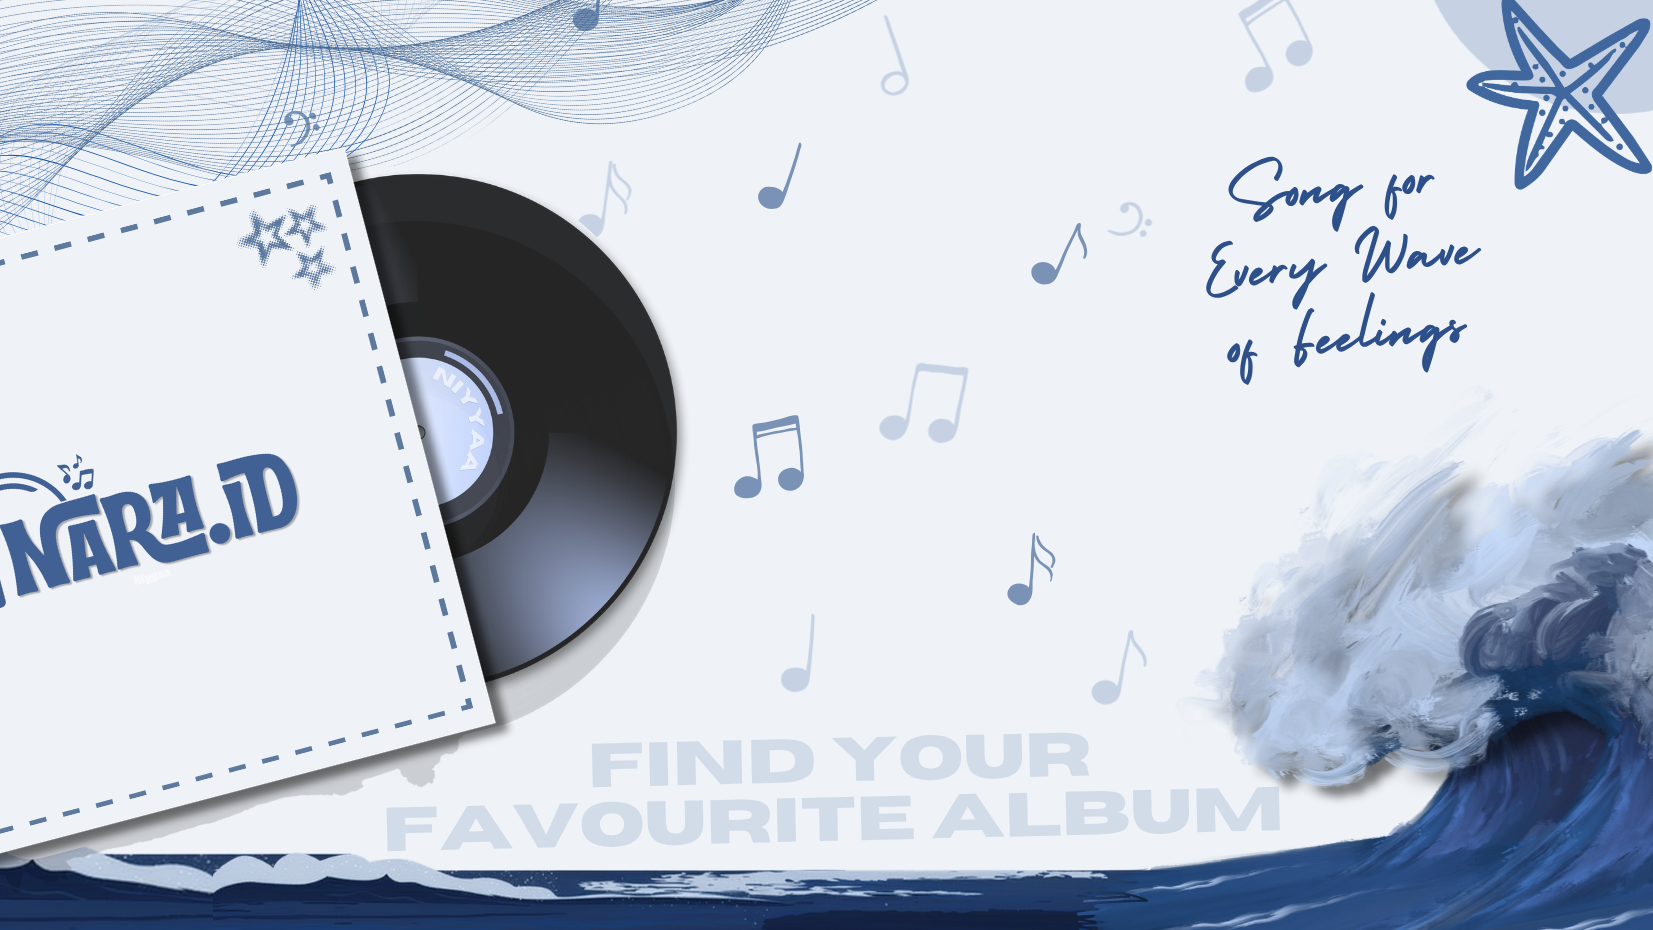
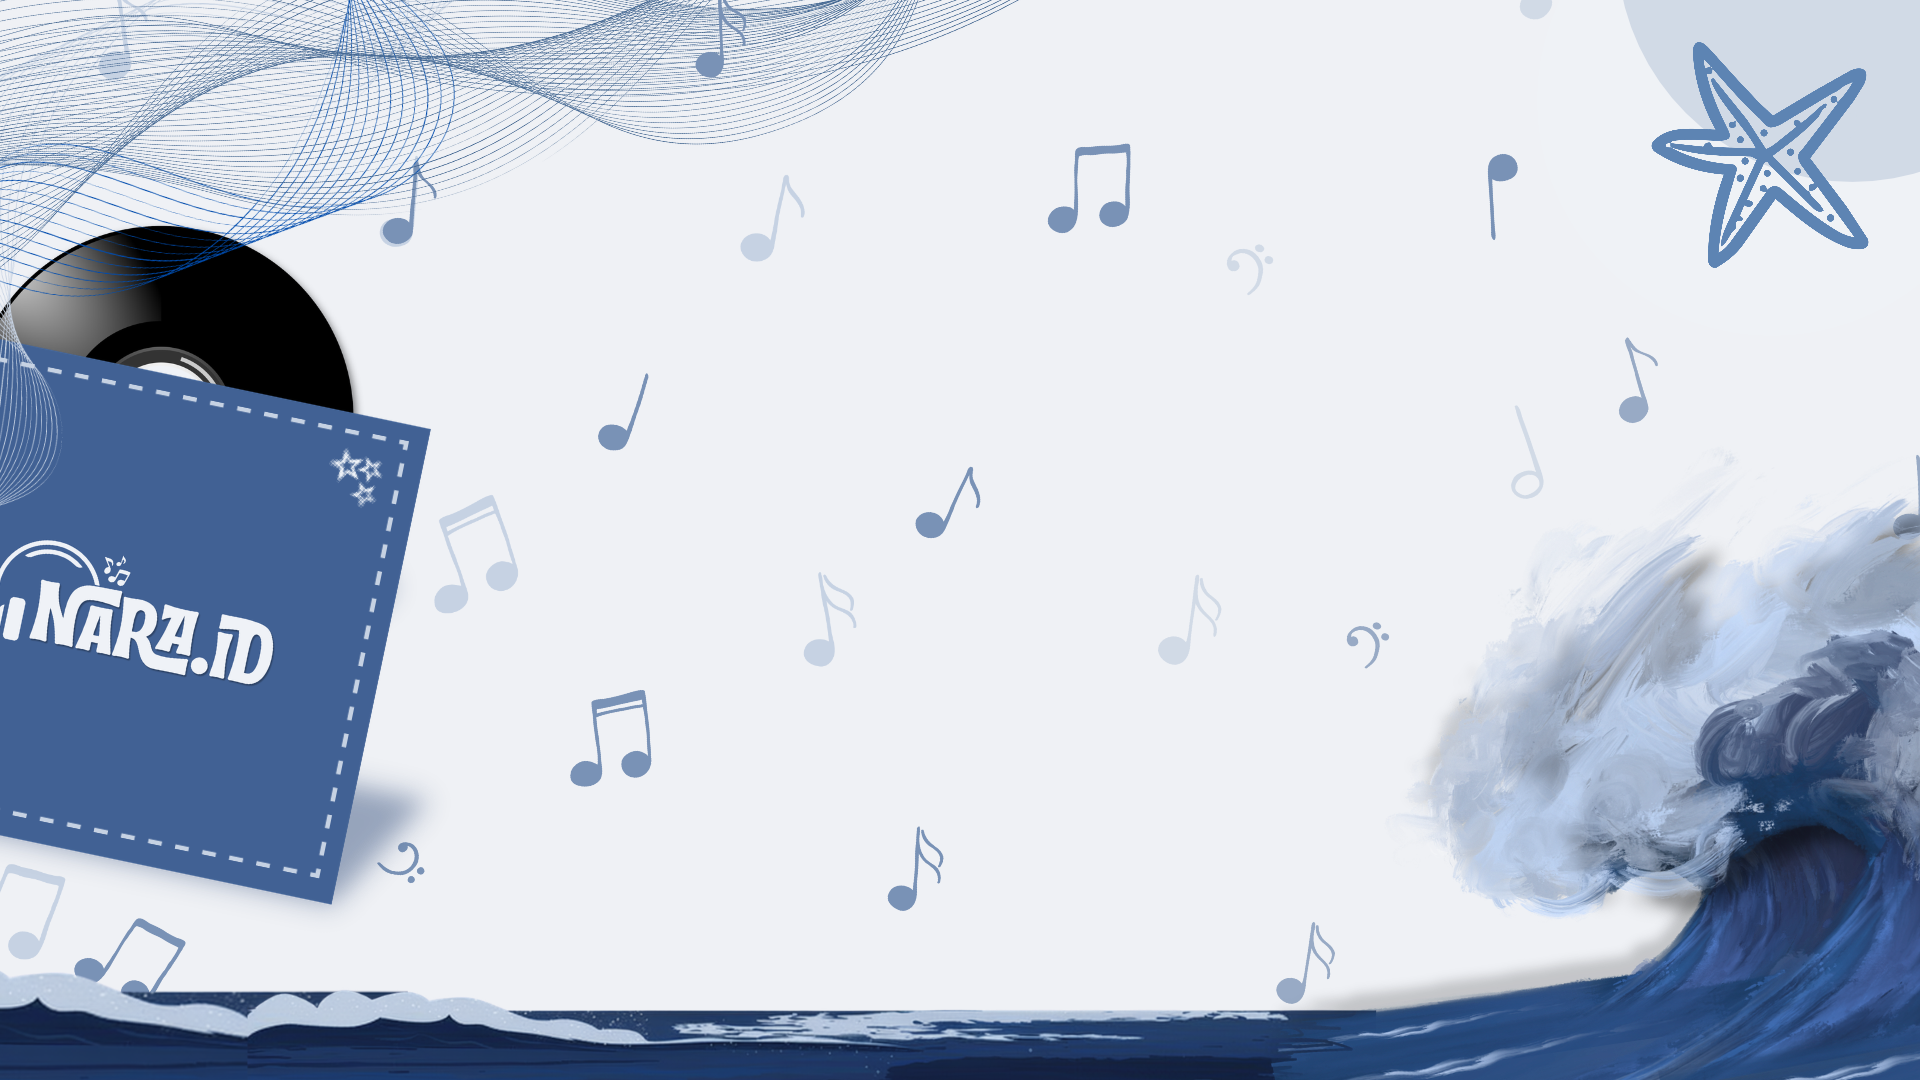
benerin yg owner admin

diff --git a/resources/views/pages/buyer/order/create.blade.php b/resources/views/pages/buyer/order/create.blade.php
@@ -25,17 +25,17 @@
                             <div class="col-md-4 mb-3">
                                 <label for="buyer_name" class="small text-muted mb-1">Name</label>
                                 <input type="text" id="buyer_name" class="form-control bg-light"
-                                    value="{{ auth()->user()->name }}" readonly>
+                                    value="{{ auth('buyer')->user()->name }}" readonly>
                             </div>
                             <div class="col-md-4 mb-3">
                                 <label for="buyer_email" class="small text-muted mb-1">Email</label>
                                 <input type="email" id="buyer_email" class="form-control bg-light"
-                                    value="{{ auth()->user()->email }}" readonly>
+                                    value="{{ auth('buyer')->user()->email }}" readonly>
                             </div>
                             <div class="col-md-4 mb-3">
                                 <label for="buyer_phone" class="small text-muted mb-1">Phone Number</label>
                                 <input type="text" id="buyer_phone" class="form-control bg-light"
-                                    value="{{ auth()->user()->phone }}" readonly>
+                                    value="{{ auth('buyer')->user()->phone }}" readonly>
                             </div>
                         </div>
 
@@ -54,7 +54,8 @@
                                     </option>
                                     @foreach ($albums as $album)
                                         <option value="{{ $album->id }}" data-price="{{ $album->price }}"
-                                            data-stock="{{ $album->stock }}" data-title="{{ $album->title }}"
+                                            data-stock="{{ $album->stock }}" data-artist="{{ $album->artist_name }}"
+                                            data-title="{{ $album->title }}"
                                             data-image="{{ $album->image ? asset('storage/albums/' . $album->image) : '' }}"
                                             {{ $album->stock <= 0 ? 'disabled' : '' }}
                                             {{ old('album_id') == $album->id ? 'selected' : '' }}>
@@ -83,6 +84,9 @@
                             <div class="order-item-body">
                                 <div class="order-item-title" id="albumTitle">
                                     {{ isset($fromalbum) ? $fromalbum->title : 'No album selected' }}
+                                </div>
+                                <div class="small text-muted mb-1" id="albumArtist">
+                                    {{ isset($fromalbum) ? $fromalbum->artist_name : '' }}
                                 </div>
                                 <div class="order-item-stock" id="albumStock">
                                     @if (isset($fromalbum))
@@ -168,11 +172,13 @@
                         stock = parseInt(opt.dataset.stock || 0);
 
                         const titleEl = document.getElementById('albumTitle');
+                        const artistEl = document.getElementById('albumArtist');
                         const priceEl = document.getElementById('albumPrice');
                         const img = document.getElementById('albumImage');
                         const placeholder = document.getElementById('albumPlaceholder');
 
                         if (titleEl) titleEl.innerText = opt.dataset.title || 'No album selected';
+                        if (artistEl) artistEl.innerText = opt.dataset.artist || '';
                         if (priceEl) priceEl.innerText = fmt(price);
                         if (stockEl) stockEl.innerHTML = opt.value ? stockText(stock) : 'Stock: -';
 

diff --git a/resources/views/layouts/auth.blade.php b/resources/views/layouts/auth.blade.php
@@ -28,7 +28,6 @@
         .password-wrapper .form-control {
             padding-right: 3rem;
             background-image: none;
-            /* hilangin ikon error bawaan Bootstrap biar gak tabrakan */
         }
 
         .toggle-password {
@@ -49,11 +48,11 @@
 
         .regin-page {
             min-height: 100vh;
+            width: 100%;
             background:
-                linear-gradient(rgba(23, 37, 54, 0.65), rgba(23, 37, 54, 0.65)),
-                url('/img/hero-bg.jpg');
-            background-size: cover;
-            background-position: center;
+                linear-gradient(rgba(0, 0, 0, 0.45),rgba(0, 0, 0, 0.45)),
+                url('/img/background.png') center center / cover no-repeat;
+            background-attachment: fixed;
         }
 
         .regin-card {
@@ -81,6 +80,7 @@
         }
 
         .regin-page .container {
+            min-height: 100vh;
             padding-top: 3rem;
             padding-bottom: 3rem;
         }
@@ -132,21 +132,21 @@
     <script src="js/sb-admin-2.min.js"></script>
 
     <script>
-    document.addEventListener('click', function (e) {
-        const btn = e.target.closest('.toggle-password');
-        if (!btn) return;
+        document.addEventListener('click', function(e) {
+            const btn = e.target.closest('.toggle-password');
+            if (!btn) return;
 
-        const input = document.getElementById(btn.dataset.target);
-        const icon = btn.querySelector('i');
-        if (!input) return;
+            const input = document.getElementById(btn.dataset.target);
+            const icon = btn.querySelector('i');
+            if (!input) return;
 
-        const isHidden = input.type === 'password';
-        input.type = isHidden ? 'text' : 'password';
-        icon.classList.toggle('fa-eye', !isHidden);
-        icon.classList.toggle('fa-eye-slash', isHidden);
-        btn.setAttribute('aria-label', isHidden ? 'Sembunyikan password' : 'Tampilkan password');
-    });
-</script>
+            const isHidden = input.type === 'password';
+            input.type = isHidden ? 'text' : 'password';
+            icon.classList.toggle('fa-eye', !isHidden);
+            icon.classList.toggle('fa-eye-slash', isHidden);
+            btn.setAttribute('aria-label', isHidden ? 'Sembunyikan password' : 'Tampilkan password');
+        });
+    </script>
 
 </body>
 

diff --git a/app/Http/Controllers/Buyer/OrderController.php b/app/Http/Controllers/Buyer/OrderController.php
@@ -18,7 +18,7 @@ class OrderController extends Controller
         $status = $request->query('status');
 
         $orders = Order::with('album')
-            ->where('buyer_id', auth()->id())
+            ->where('buyer_id', auth('buyer')->id())
             ->when($status, fn($q) => $q->where('status', $status))
             ->latest()
             ->get();
@@ -35,12 +35,12 @@ class OrderController extends Controller
 
     public function show(string $id)
     {
-        $order = Order::with('album')->findOrFail(decrypt($id));
+        $order = Order::with('album')->where('buyer_id', auth('buyer')->id())->findOrFail(decrypt($id));
 
         return view('pages.buyer.order.show', compact('order'));
     }
 
-    public function createFromAlbum($id)
+    public function createFromAlbum(string $id)
     {
         $fromalbum = Album::findOrFail(decrypt($id));
 
@@ -67,7 +67,7 @@ class OrderController extends Controller
             $album->decrement('stock', $validated['qty']);
 
             return Order::create([
-                'buyer_id' => auth()->id(),
+                'buyer_id' => auth('buyer')->id(),
                 'album_id' => $album->id,
                 'qty' => $validated['qty'],
                 'total' => $album->price * $validated['qty'],
@@ -80,18 +80,18 @@ class OrderController extends Controller
             ->with('success', 'Order created successfully. Please complete your payment within 24 hours.');
     }
 
-    public function payment($id)
+    public function payment(string $id)
     {
         $order = Order::with('album')
-            ->where('buyer_id', auth()->id())
+            ->where('buyer_id', auth('buyer')->id())
             ->findOrFail(decrypt($id));
 
         return view('pages.buyer.order.payment', compact('order'));
     }
 
-    public function uploadPayment(Request $request, $id)
+    public function uploadPayment(Request $request, string $id)
     {
-        $order = Order::where('buyer_id', auth()->id())->findOrFail(decrypt($id));
+        $order = Order::where('buyer_id', auth('buyer')->id())->findOrFail(decrypt($id));
 
         // only orders that are still waiting for payment / verification can receive a proof
         if (!in_array($order->status, ['awaiting_payment', 'awaiting_verification'])) {

diff --git a/resources/views/pages/buyer/order/show.blade.php b/resources/views/pages/buyer/order/show.blade.php
@@ -33,7 +33,7 @@
     <div class="page-head">
         <div>
             <h1>Order Detail</h1>
-            <p>Order #{{ $order->id }}</p>
+            <p>Order #{{ $order->order_code }}</p>
         </div>
         <a href="{{ route('buyer.order.index') }}" class="btn-back">
             <i class="fas fa-arrow-left mr-2"></i><span>My Orders</span>
@@ -81,7 +81,8 @@
                 <div class="order-note order-note--refund">
                     <i class="fas fa-undo"></i>
                     <span>
-                        Your payment will be refunded within <strong>1x24 hours</strong>.
+                        A refund of <strong>IDR {{ number_format($order->total, 0, ',', '.') }}</strong>
+                        will be sent to the account you used for the transfer within <strong>1x24 hours</strong>.
                         If it hasn't arrived yet, please contact us at <strong>+62 856-9352-6592</strong>
                         or <strong>naraid@gmail.com</strong>.
                     </span>
@@ -111,7 +112,7 @@
                         <span><i class="fas fa-phone-alt"></i> +62 856-9352-6592</span>
                     </div>
 
-                    <small>Please show your Order ID <b>#{{ $order->id }}</b> when picking up.</small>
+                    <small>Please show your Order ID <b>#{{ $order->order_code }}</b> when picking up.</small>
                 </div>
 
                 <a href="https://www.google.com/maps/search/?api=1&query={{ urlencode('Jl. Jenderal Sudirman No. 45, Purbalingga') }}"

diff --git a/routes/web.php b/routes/web.php
@@ -4,7 +4,6 @@ use Illuminate\Support\Facades\Route;
 
 
 Route::get('/', [App\Http\Controllers\LandingController::class, 'index'])->name('landing');
-// web.php
 Route::get('/catalog/{id}', [App\Http\Controllers\CatalogController::class, 'show'])->name('catalog.show');
 
 Route::get('login', [App\Http\Controllers\Auth\LoginController::class, 'showLoginForm'])->name('login');
@@ -12,7 +11,7 @@ Route::post('login', [App\Http\Controllers\Auth\LoginController::class, 'login']
 Route::post('/admin/logout', [App\Http\Controllers\Auth\LoginController::class, 'logoutAdmin'])->name('admin.logout');
 Route::post('/buyer/logout', [App\Http\Controllers\Auth\LoginController::class, 'logoutBuyer'])->name('buyer.logout');
 
-//Registrasi pembeli
+//registrasi pembeli
 Route::get('/register', [App\Http\Controllers\Auth\Buyer\RegisterController::class, 'showRegistrationForm'])->name('register');
 Route::post('/register', [App\Http\Controllers\Auth\Buyer\RegisterController::class, 'register']);
 

diff --git a/resources/views/pages/admin/order/edit.blade.php b/resources/views/pages/admin/order/edit.blade.php
@@ -19,7 +19,7 @@
                     <div class="admin-form-group">
                         <label for="id" class="form-label">Order ID</label>
                         <div class="admin-form-input">
-                            <input type="text" id="id" value="{{ $order->id }}" class="form-control"
+                            <input type="text" id="id" value="{{ $order->order_code }}" class="form-control"
                                 style="background-color: transparent;" readonly>
                         </div>
                     </div>

diff --git a/resources/views/welcome.blade.php b/resources/views/welcome.blade.php
@@ -61,9 +61,7 @@
 
             <div class="top-row d-flex align-items-center justify-content-between">
                 <a class="logo d-flex align-items-center">
-                    <!-- Uncomment the line below if you also wish to use an image logo -->
                     <img src="{{ asset('img/logo1.png') }}" alt="NARA.ID" style="width: 150px; height: auto;">
-                    <!-- <h1 class="sitename">NARA.ID</h1> -->
                 </a>
             </div>
         </div>

diff --git a/database/seeders/UserSeeder.php b/database/seeders/UserSeeder.php
@@ -12,11 +12,13 @@ class UserSeeder extends Seeder
      */
     public function run(): void
     {
-        \App\Models\User::create([
+        $owner = new \App\Models\User([
             'name' => 'yayaatmin',
             'email' => 'atminnaraid@gmail.com',
-            'password' => 'yayaatmin0'
+            'password' => 'yayaatmin0',
         ]);
+        $owner->role = 'owner';
+        $owner->save();
 
         \App\Models\User::factory()->count(4)->create();
     }

diff --git a/resources/views/pages/buyer/order/payment.blade.php b/resources/views/pages/buyer/order/payment.blade.php
@@ -29,7 +29,7 @@
 
             <div class="order-item-body">
                 <div class="order-item-title">{{ $order->album->title ?? '-' }}</div>
-                <div class="text-muted mb-1">Order #{{ $order->id }}</div>
+                <div class="text-muted mb-1">Order #{{ $order->order_code }}</div>
                 <div class="text-muted mb-3">Qty: {{ $order->qty }}</div>
 
                 <div class="order-item-total">

diff --git a/app/Models/Order.php b/app/Models/Order.php
@@ -45,9 +45,14 @@ class Order extends Model
         });
 
         if ($cancelled) {
-            $this->refresh(); // supaya $this->status ikut 'cancelled'
+            $this->refresh(); // supaya order status ikut 'cancelled'
         }
 
         return $cancelled;
+    }
+
+    public function getOrderCodeAttribute(): string
+    {
+        return 'NR-' . str_pad($this->id, 5, '0', STR_PAD_LEFT);
     }
 }

diff --git a/resources/views/pages/buyer/order/index.blade.php b/resources/views/pages/buyer/order/index.blade.php
@@ -63,7 +63,7 @@
                             <td>{{ $loop->iteration }}</td>
 
                             <td>
-                                <strong>#{{ $order->id }}</strong><br>
+                                <strong>#{{ $order->order_code }}</strong><br>
                                 <small class="text-muted">{{ $order->created_at->format('d M Y') }}</small>
                             </td>
 

diff --git a/resources/views/pages/buyer/dashboard.blade.php b/resources/views/pages/buyer/dashboard.blade.php
@@ -5,7 +5,7 @@
 @section('content')
     <!-- Hero -->
     <div class="hero-banner" style="background-image: url('{{ asset('img/hero-nara.png') }}');">
-        <h1>Welcome back, {{ auth()->user()->name }}!</h1>
+        <h1>Welcome back, {{ auth('buyer')->user()->name }}!</h1>
         <p>Ready to grab your next album? Here's what's happening on Nara.id.</p>
     </div>
 
